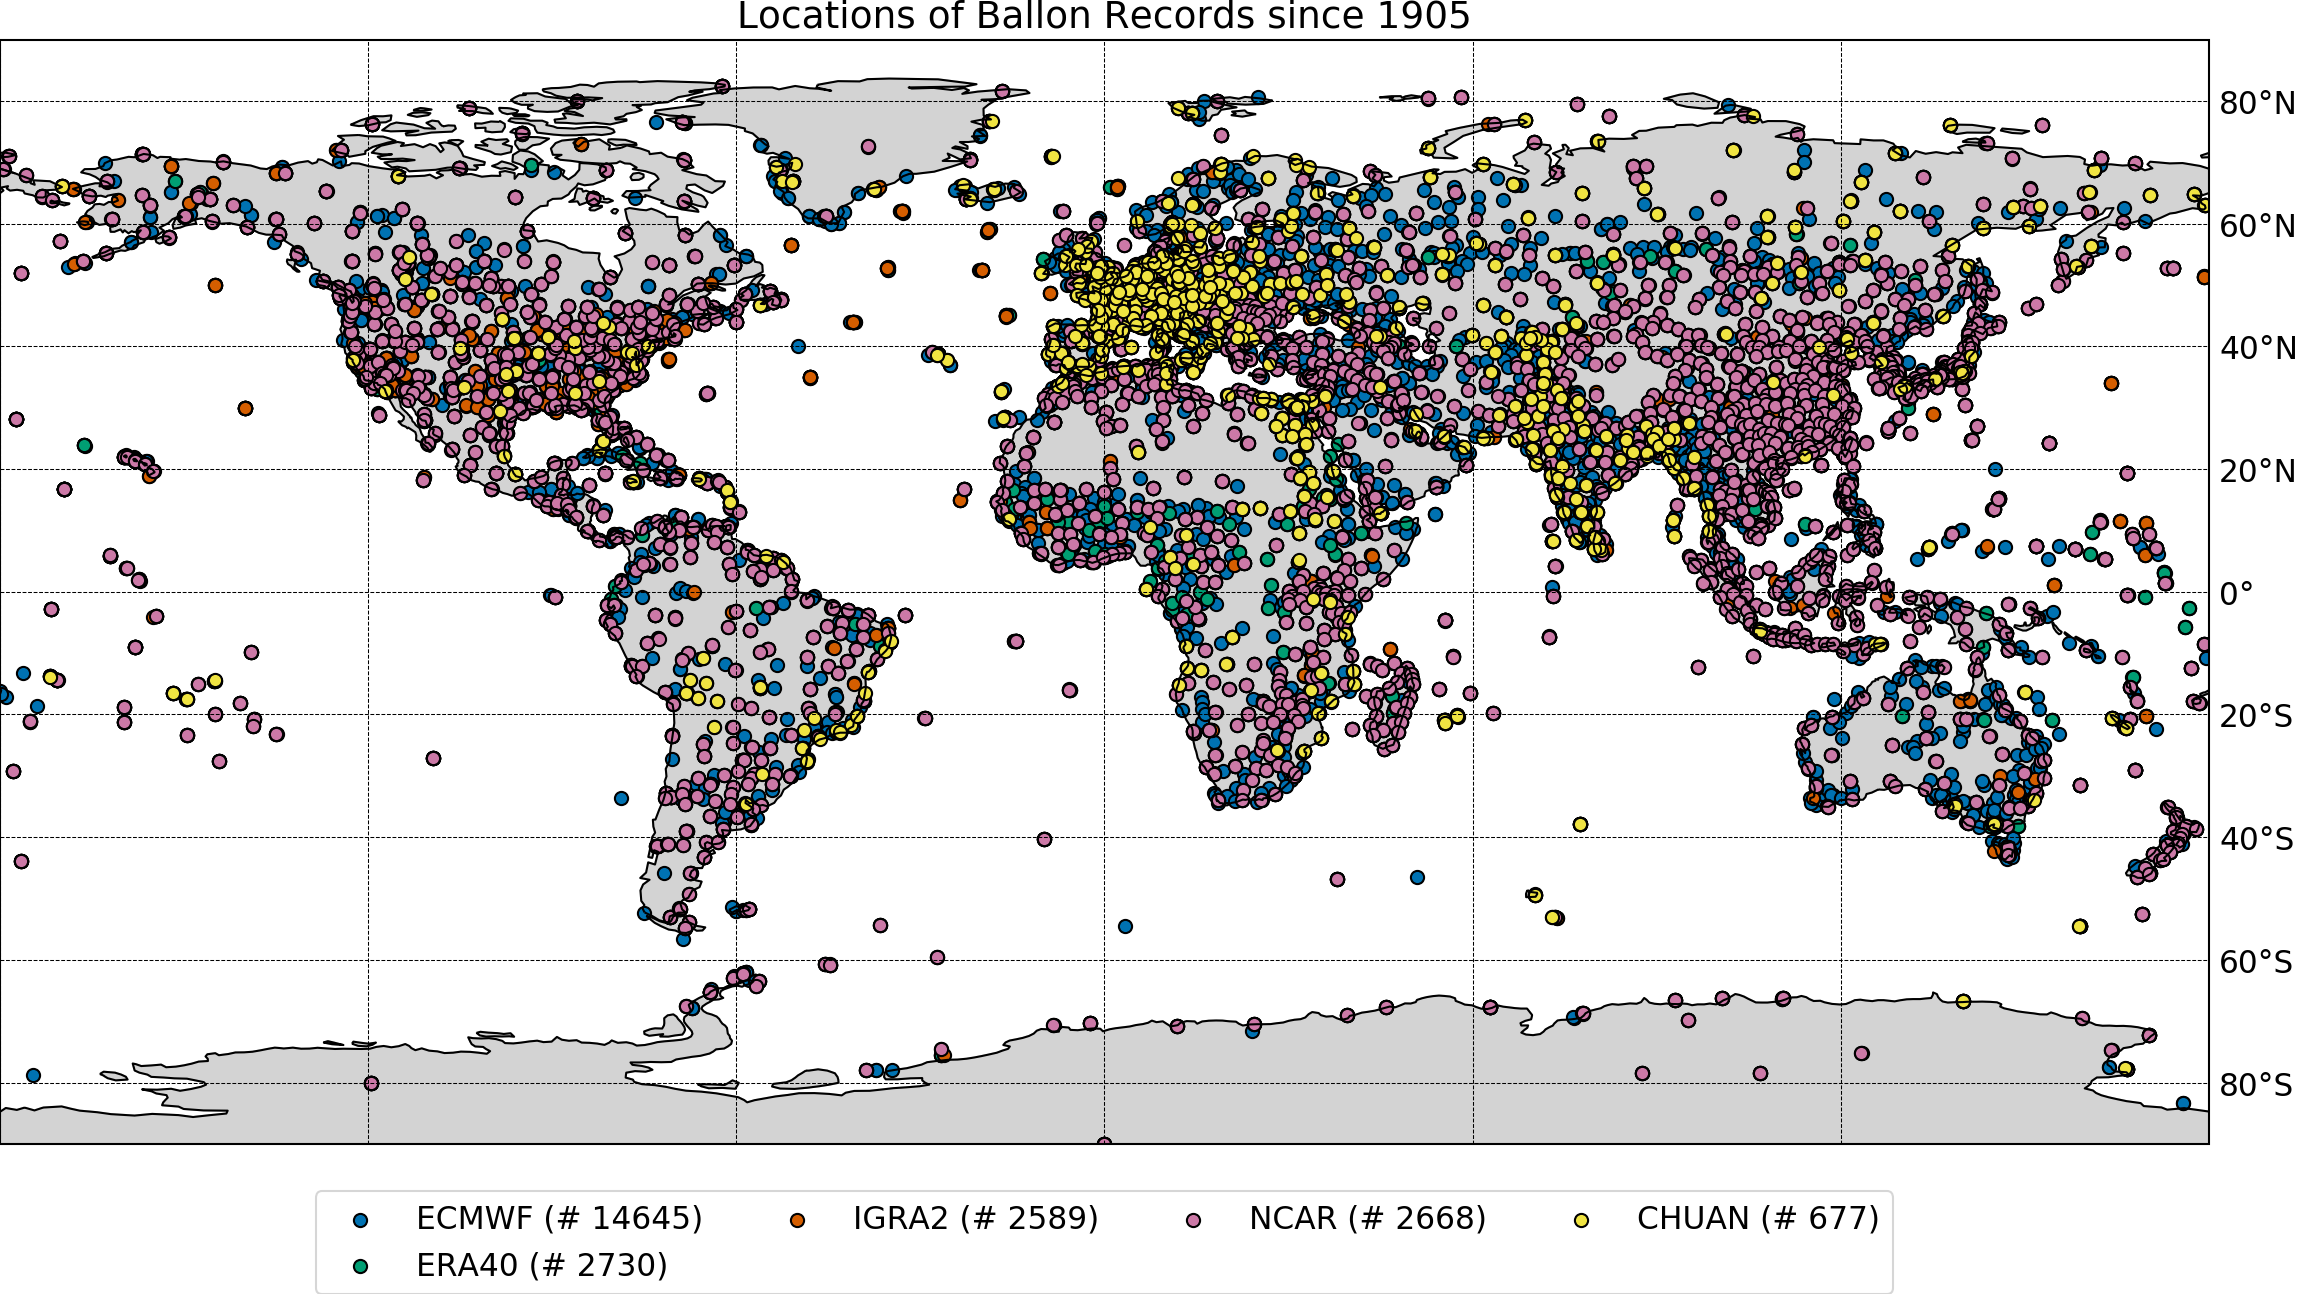
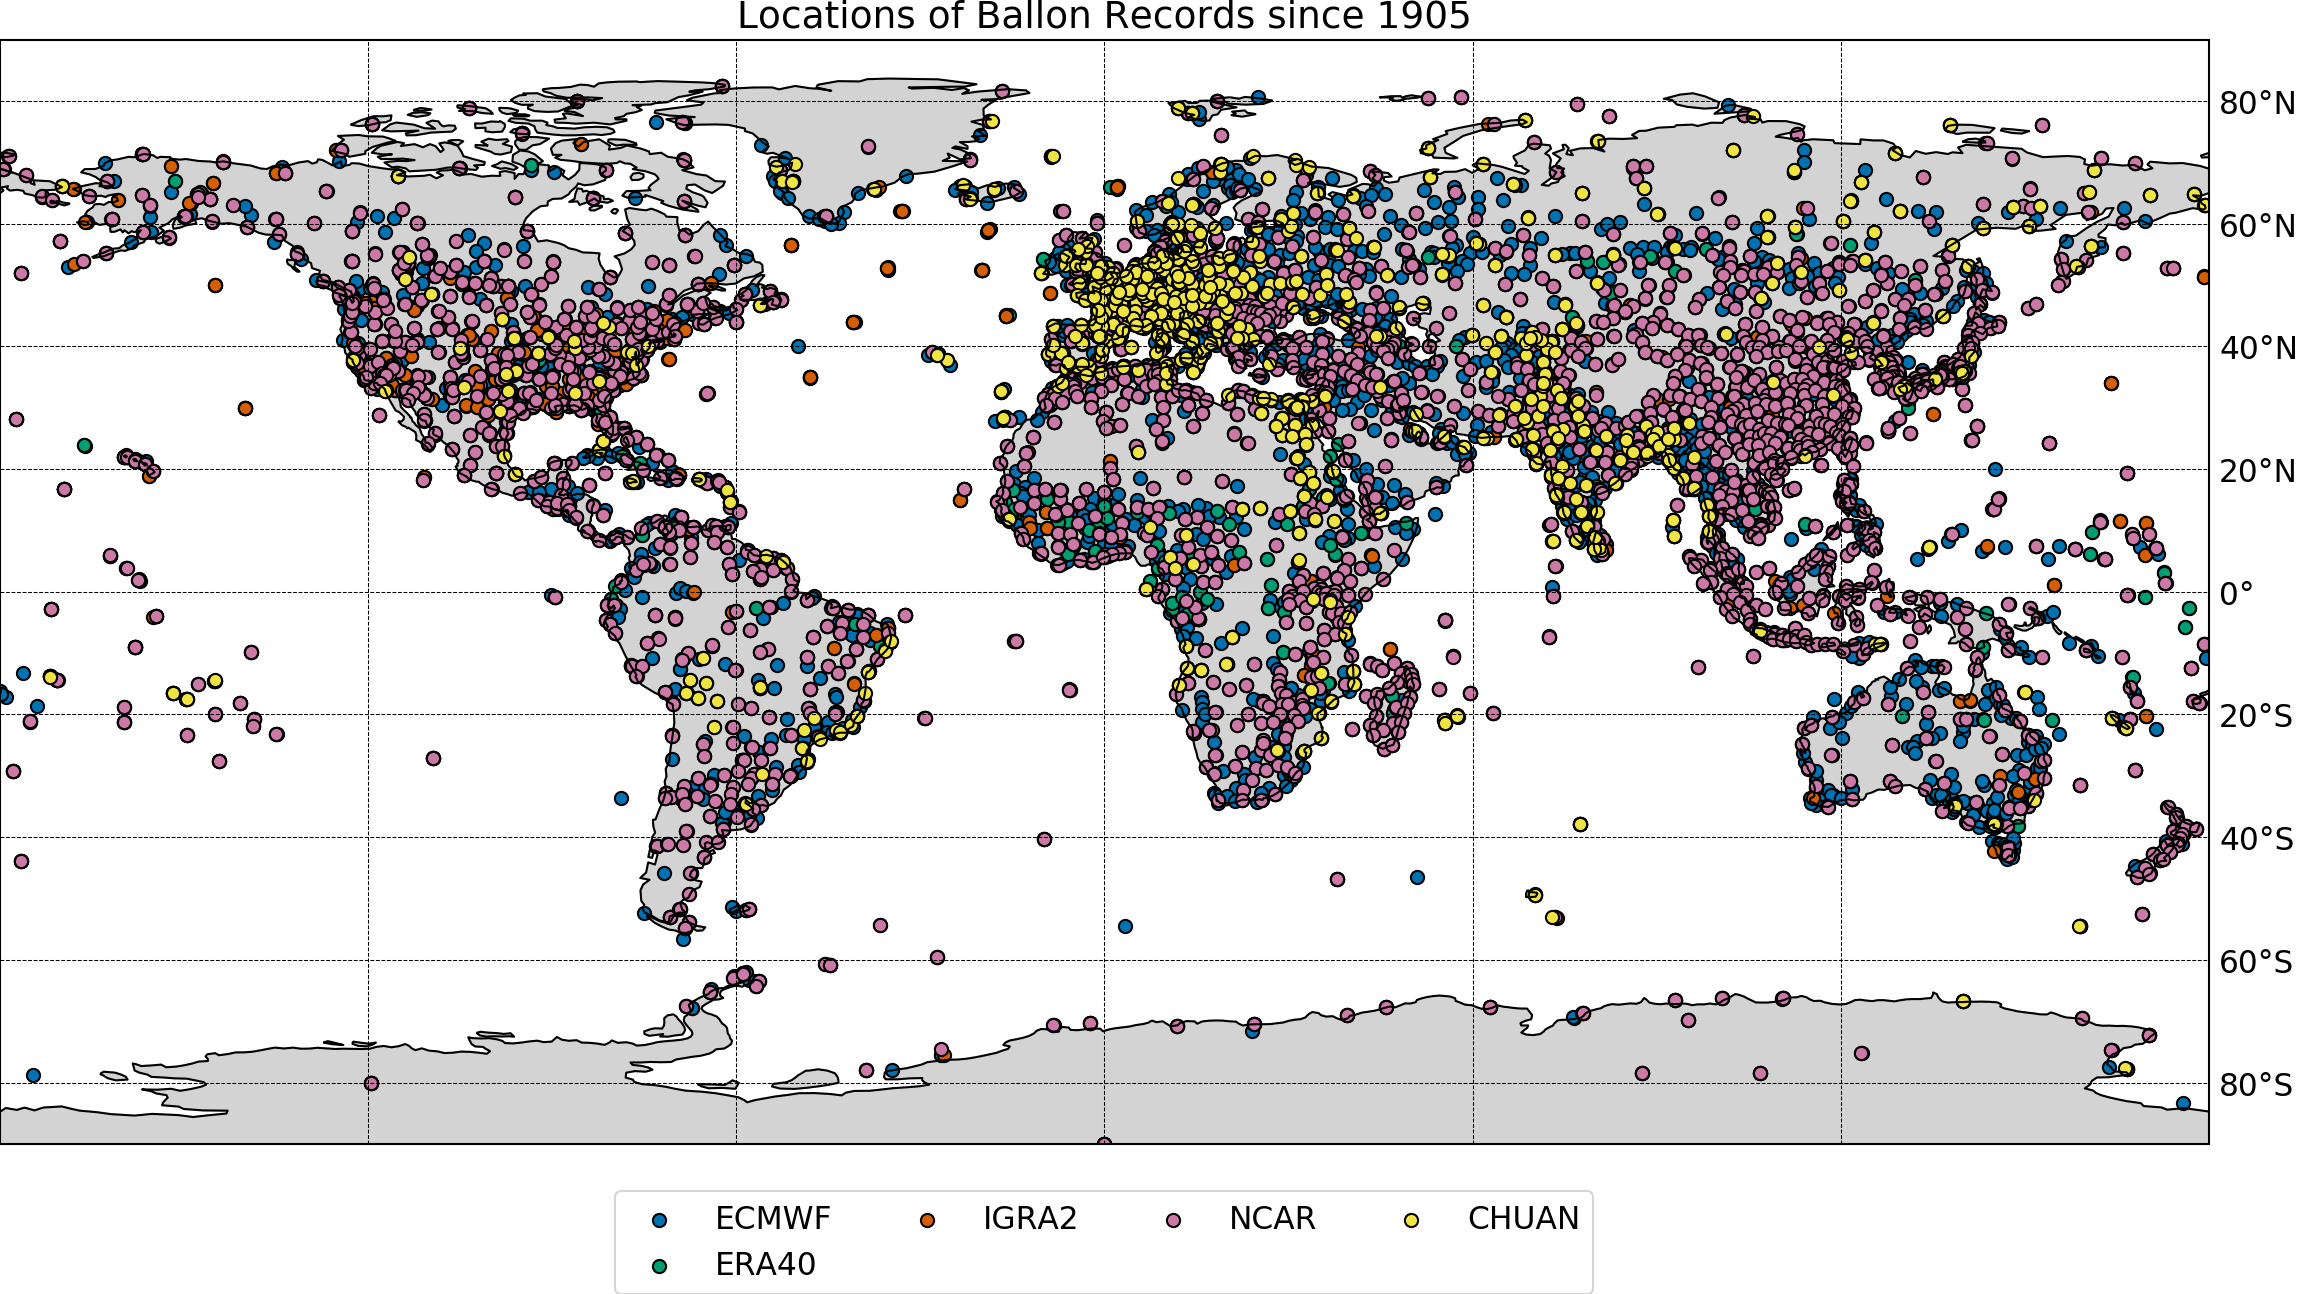
updated Product User Guide and figure

Changed region(s): [[0.1545, 0.9274, 0.8342, 0.9892]]

diff --git a/CEUAS/public/cds-frontend/doc/figures/C3S_webpage_figure.py b/CEUAS/public/cds-frontend/doc/figures/C3S_webpage_figure.py
@@ -1,23 +1,18 @@
 #!/usr/bin/env python
 # coding: utf-8
 
-import os
 import numpy
-import matplotlib
-from matplotlib import pylab, mlab, pyplot
+from matplotlib import pyplot
+
 np = numpy
 plt = pyplot
-from IPython.core.pylabtools import figsize, getfigs
 from pylab import *
 from numpy import *
 
 import cartopy as cpy
-from matplotlib.colors import BoundaryNorm
 import pandas as pd
 
-
 idir = '../../../harvest/data/station_configurations/'
-
 
 # In[8]:
 
@@ -25,34 +20,29 @@ idir = '../../../harvest/data/station_configurations/'
 files = os.listdir(idir)
 print("\n".join(files))
 
-
 # In[10]:
 
 
 files_ordered = {}
 for ifile in files:
-    idata = pd.read_csv(idir + ifile,  delimiter='\t', quoting=3, comment='#')
+    idata = pd.read_csv(idir + ifile, delimiter='\t', quoting=3, comment='#')
     print(ifile, idata.shape[0], idata['observed_variables'].map(len).unique())
     files_ordered[ifile] = idata.shape[0]
-
 
 # In[11]:
 
 
 idata['primary_id']
 
-
 # In[12]:
 
 
 files_ordered = list(pd.Series(files_ordered).sort_values().index.values[::-1])
 
-
 # In[13]:
 
 
 print(files_ordered)
-
 
 # In[14]:
 
@@ -65,9 +55,8 @@ plt.rcParams['axes.linewidth'] = 2
 plt.rcParams['xtick.major.size'] = 10
 plt.rcParams['xtick.minor.size'] = 10
 plt.rcParams['font.size'] = 15
-plt.rcParams['figure.figsize'] = (19,10.6)
+plt.rcParams['figure.figsize'] = (19, 10.6)
 plt.style.use('seaborn-colorblind')
-
 
 # ## Sources Map
 
@@ -75,8 +64,8 @@ plt.style.use('seaborn-colorblind')
 projection = cpy.crs.PlateCarree()
 ax = plt.axes(projection=projection)
 
-ocean_facecolor='w'  # cpy.feature.COLORS['water']
-land_facecolor='lightgray' # cpy.feature.COLORS['land']
+ocean_facecolor = 'w'  # cpy.feature.COLORS['water']
+land_facecolor = 'lightgray'  # cpy.feature.COLORS['land']
 if True:
     ax.add_feature(cpy.feature.OCEAN, zorder=0, facecolor=ocean_facecolor)
 
@@ -94,18 +83,21 @@ unique_stations = []
 data_src = {}
 # Sources:
 for ifile in files_ordered:
-    idata = pd.read_csv(idir + ifile,  delimiter='\t', quoting=3, comment='#')
+    idata = pd.read_csv(idir + ifile, delimiter='\t', quoting=3, comment='#')
     lon = idata['longitude'].values
     lat = idata['latitude'].values
     if any(lon > 180):
         lon = np.where(lon > 180, lon - 360, lon)
-    idx = np.isfinite(lon) & np.isfinite(lat) & ((lon >= -180) & (lon <= 180)) & ((lat >= -90) & (lat <= 90)) & (idata['primary_id'].str.contains('0'))
+    idx = np.isfinite(lon) & np.isfinite(lat) & ((lon >= -180) & (lon <= 180)) & ((lat >= -90) & (lat <= 90)) & (
+        idata['primary_id'].str.contains('0'))
     idata = idata[idx].drop_duplicates(subset='primary_id', keep='last')
     lon = idata['longitude'].values
     if any(lon > 180):
         lon = np.where(lon > 180, lon - 360, lon)
     lat = idata['latitude'].values
-    ilabel = ifile.replace('station_configuration_','').replace('.dat','').upper().replace('_',' ') #+ ' (# %d)' % idx.sum()
+    idata['longitude'] = lon  # update
+    ilabel = ifile.replace('station_configuration_', '').replace('.dat', '').upper().replace('_',
+                                                                                             ' ')  # + ' (# %d)' % idx.sum()
     if '3188' in ilabel:
         ilabel = 'CHUAN'
     if 'BUFR' in ilabel:
@@ -113,20 +105,22 @@ for ifile in files_ordered:
     if 'ERA5' in ilabel:
         print(ilabel, 'to ECMWF')
         ilabel = 'ECMWF'
-    
-    
+
     if ilabel in data_src.keys():
-        data_src[ilabel] = np.unique(data_src[ilabel] + list(zip(lon,lat)),axis=1).tolist()
+        data_src[ilabel] = pd.concat([data_src[ilabel], idata[['primary_id', 'longitude', 'latitude', 'station_name']]],
+                                     axis=0).drop_duplicates(subset='primary_id', keep='last').drop_duplicates(
+            subset='station_name', keep='last')
+        print('Updated:', ilabel, data_src[ilabel].shape, idata.shape)
     else:
-        data_src[ilabel] = list(zip(lon,lat))
-    
+        data_src[ilabel] = idata[['primary_id', 'longitude', 'latitude', 'station_name']]
+        print('Data found:', ilabel, idata.shape)
+
 for ikey in data_src.keys():
-    tmp = np.array(data_src[ikey])
-    ilon, ilat = tmp[:,0], tmp[:,1]
+    ilon, ilat = data_src[ikey]['longitude'].values, data_src[ikey]['latitude'].values
     print(ikey, ilon.size)
-    ax.scatter(ilon,ilat, s=40 , transform=cpy.crs.PlateCarree(), edgecolor='k', 
-               label=ikey + ' (# %d)' % ilon.size)  # ontop
-    unique_stations = list(np.unique(unique_stations + ["{:.1f}{:.1f}".format(i, j) for i,j in zip(ilon,ilat)]))
+    ax.scatter(ilon, ilat, s=40, transform=cpy.crs.PlateCarree(), edgecolor='k',
+               label=ikey)  # + ' (# %d)' % ilon.size)  # ontop
+    unique_stations = list(np.unique(unique_stations + ["{:.1f}{:.1f}".format(i, j) for i, j in zip(ilon, ilat)]))
 
 if True:
     try:
@@ -142,10 +136,7 @@ if True:
 
 title = 'Locations of Ballon Records since 1905'
 ax.set_title(title)
-ax.legend(bbox_to_anchor=(0.5,-0.15), loc='lower center', ncol=4)
-# savefig('C3S_webpage_logo.pdf', dpi=300, bbox_inches = 'tight',  pad_inches = 0)
-savefig('CEUAS_network_v2.png', dpi=150, bbox_inches = 'tight',  pad_inches = 0)
-
-
-
-
+ax.legend(bbox_to_anchor=(0.5, -0.15), loc='lower center', ncol=4)
+if True:
+    # savefig('C3S_webpage_logo.pdf', dpi=300, bbox_inches = 'tight',  pad_inches = 0)
+    savefig('CEUAS_network_v2.png', dpi=150, bbox_inches='tight', pad_inches=0)
